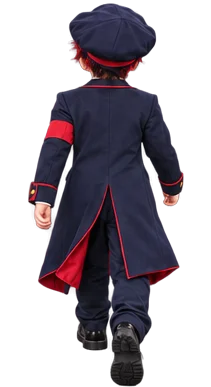
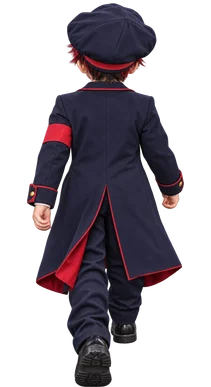
歩行: C001小学生の背面コマ3を逆足に作り直し (#204) (#212)
* 歩行: C001小学生の背面コマ3を逆足に作り直し (#204)

* 歩行: C001小学生背面コマ3の台帳(sha256・来歴・素材更新AUP-153)を更新 (#204)

diff --git a/docs/ledger/views/content.md b/docs/ledger/views/content.md
@@ -869,7 +869,7 @@ uv run python3 scripts/content_ledger_views.py build で更新する。
 | A-095 | C001 | characters | assets/images/characters/C001/walk/C001-elementary-walk-right-3.webp | 現存（採否未照合） |  | 現存ファイル登録。採用判定を追加しない。所有者が空なら未決。 | a6fa2f157c4242b1f59fb74fb44bdc702ace4027f3dc523f7957f16089f58739 |  |
 | A-096 | C001 | characters | assets/images/characters/C001/walk/C001-elementary-walk-up-1.webp | 現存（採否未照合） |  | 現存ファイル登録。採用判定を追加しない。所有者が空なら未決。 | ffcc4b1e923c3a28cc8a78b71c9087a981b32f93b5cfddf8e6dc198fcec65718 |  |
 | A-097 | C001 | characters | assets/images/characters/C001/walk/C001-elementary-walk-up-2.webp | 現存（採否未照合） |  | 現存ファイル登録。採用判定を追加しない。所有者が空なら未決。 | efca97be367b72b81323eff21f997ee80746571924dee0ab16bf454a78931357 |  |
-| A-098 | C001 | characters | assets/images/characters/C001/walk/C001-elementary-walk-up-3.webp | 現存（採否未照合） |  | 現存ファイル登録。採用判定を追加しない。所有者が空なら未決。 | 016d29677aefd649c9cf30cb71a47c3bb2dff61931ee7714e97723a98dd4565b |  |
+| A-098 | C001 | characters | assets/images/characters/C001/walk/C001-elementary-walk-up-3.webp | 現存（採否未照合） |  | 現存ファイル登録。採用判定を追加しない。所有者が空なら未決。 2026-11-03 Issue #204: コマ3の足運びをコマ1と逆足に画像生成で作り直し(コマ1・旧コマ3が同足で歩いて見えなかった)。位相正本=コマ1の水平反転、土台=旧コマ3、同一性=年齢マスター。メインが拡大目視で確認 | 379adede37ed9ec6dbdcd93660ce926875a0464ec30c20cb8322b7fa2cee461e |  |
 | A-099 | C001 | characters | assets/images/characters/C001/walk/C001-elementary-wheelchair-walk-down-1.webp | 現存（採否未照合） |  | 現存ファイル登録。採用判定を追加しない。所有者が空なら未決。 | de14dd0d8d15735666f96ac274359f7d3a84ef76dfa4b90ce36d023c3ed7c359 |  |
 | A-100 | C001 | characters | assets/images/characters/C001/walk/C001-elementary-wheelchair-walk-down-2.webp | 現存（採否未照合） |  | 現存ファイル登録。採用判定を追加しない。所有者が空なら未決。 | 9c9ae8e3f894ac09dc545486466ea8a678a9bde7f839b17e5b0f6eeb3ec7db6c |  |
 | A-101 | C001 | characters | assets/images/characters/C001/walk/C001-elementary-wheelchair-walk-down-3.webp | 現存（採否未照合） |  | 現存ファイル登録。採用判定を追加しない。所有者が空なら未決。 | 93919407fd51800e650edad401ac99701971e9f3f8b406f368625690e6753ac6 |  |

diff --git a/docs/INDEX.md b/docs/INDEX.md
@@ -93,7 +93,7 @@
 | [採用要素](ledger/採用要素.yaml) | 6 | 採用画像から次の絵へ継承する要素。 | 採用要素ID / 素材ID / 元MAP / 要素 / 内容 / 継承先MAP / 継承方法 / 状態 / 確認語 / 決定参照 / 特徴(自由記述) |
 | [素材](ledger/素材.yaml) | 1324 | 素材（画像・マスクなど。没も行で保持）。 | 素材ID / 所有者ID / 種別 / パス / 状態 / 日付 / 来歴 / sha256 / 特徴(自由記述) |
 | [素材共有](ledger/素材共有.yaml) | 3 | 所有者以外の人物・敵・召喚獣が同一素材を利用する明示的な関係。素材行を複製せず、出典を保持する。 | 共有ID / 利用者ID / 素材ID / 根拠 |
-| [素材更新](ledger/素材更新.yaml) | 152 | 元の素材移行SHAを保持したまま後続の上流更新を記録するSHA連鎖。出典commitと出典パスを必須とする。 | 更新ID / 素材ID / パス / 旧sha256 / 新sha256 / 出典commit / 出典パス / 根拠 |
+| [素材更新](ledger/素材更新.yaml) | 153 | 元の素材移行SHAを保持したまま後続の上流更新を記録するSHA連鎖。出典commitと出典パスを必須とする。 | 更新ID / 素材ID / パス / 旧sha256 / 新sha256 / 出典commit / 出典パス / 根拠 |
 | [素材メタデータ](ledger/素材メタデータ.yaml) | 7 | 上流の画像用JSONを安全化してYAML正本に変換した出典とハッシュ。原文の秘匿値は保持しない。 | メタデータID / パス / 所有者ID / 原文sha256 / 安全化sha256 / 出典commit / 安全化方針 |
 | [素材メタデータ値](ledger/素材メタデータ値.yaml) | 704 | 画像用JSONをJSONポインタ・型・値へ分解したYAML正本。JSONは再構築して生成する。 | メタデータID / JSONポインタ / 型 / 値 |
 | [生成物](ledger/生成物.yaml) | 26 | 派生物（JSON）の登録と鮮度検査用ハッシュ。 | 生成物ID / 種別 / パス / 元の表 / 入力ハッシュ / 生成日時 / 再生成コマンド / 備考 |
